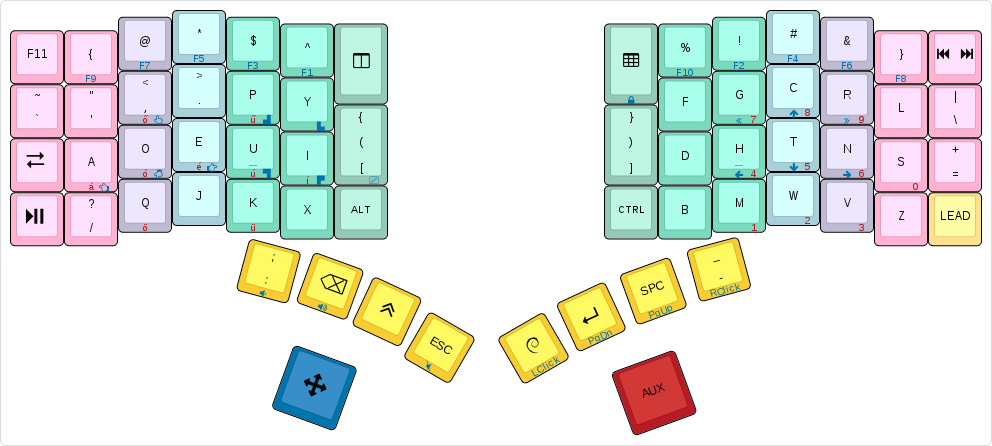
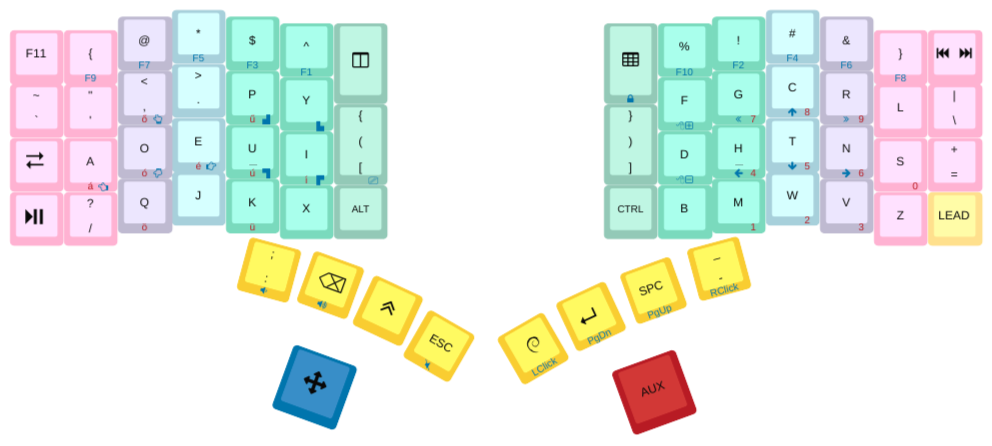
Use MouseGears
Fixes #23.

diff --git a/README.md b/README.md
@@ -61,7 +61,7 @@ This is a [Dvorak][dvorak]-inspired layout, with some changes here and there, to
 * The `R0C0` key acts as `F11` on a single tap, and if tapped more than one time, does nothing. This is so that it can be double tapped and held to go into programmable mode when re-flashing.
 * There are a few other actions one can trigger with [magic combos][kaleidoscope:magic-combos]:
   - `PALMS + A`: Switch to the [ADORE](#adore-layer).
-* We are also using [mouse keys][kaleidoscope:mouse-keys], [macros][kaleidoscope:macros] for some of the features.
+* We are also using [mouse keys][kaleidoscope:mouse-keys], [mouse gears][kaleidoscope:mouse-gears], and [macros][kaleidoscope:macros] for some of the features.
 * The keyboard can also communicate with the host bidirectionally, thanks to the [Focus][kaleidoscope:focus] plugin. See [Chrysalis][chrysalis] for a simple client.
 
   [dvorak:prg]: http://www.kaufmann.no/roland/dvorak/
@@ -73,6 +73,7 @@ This is a [Dvorak][dvorak]-inspired layout, with some changes here and there, to
   [kaleidoscope:leader]: https://github.com/keyboardio/Kaleidoscope-Leader
   [kaleidoscope:magic-combos]: https://github.com/keyboardio/Kaleidoscope-MagicCombo
   [kaleidoscope:mouse-keys]: https://github.com/keyboardio/Kaleidoscope-MouseKeys
+  [kaleidoscope:mouse-gears]: https://github.com/keyboardio/Kaleidoscope-MouseGears
   [kaleidoscope:macros]: https://github.com/keyboardio/Kaleidoscope-Macros
   [kaleidoscope:focus]: https://github.com/keyboardio/Kaleiodscope-Focus
   [chrysalis]: https://github.com/algernon/Chrysalis
@@ -115,6 +116,7 @@ This sketch makes use of a fair amount of plugins, most of them have been listed
 * [Leader][kaleidoscope:leader]
 * [Macros][kaleidoscope:macros]
 * [MagicCombos][kaleidoscope:magic-combos]
+* [MouseGears][kaleidoscope:mouse-gears]
 * [MouseKeys][kaleidoscope:mouse-keys]
 * [OneShot][kaleidoscope:oneshot]
 * [Syster][kaleidoscope:syster]
